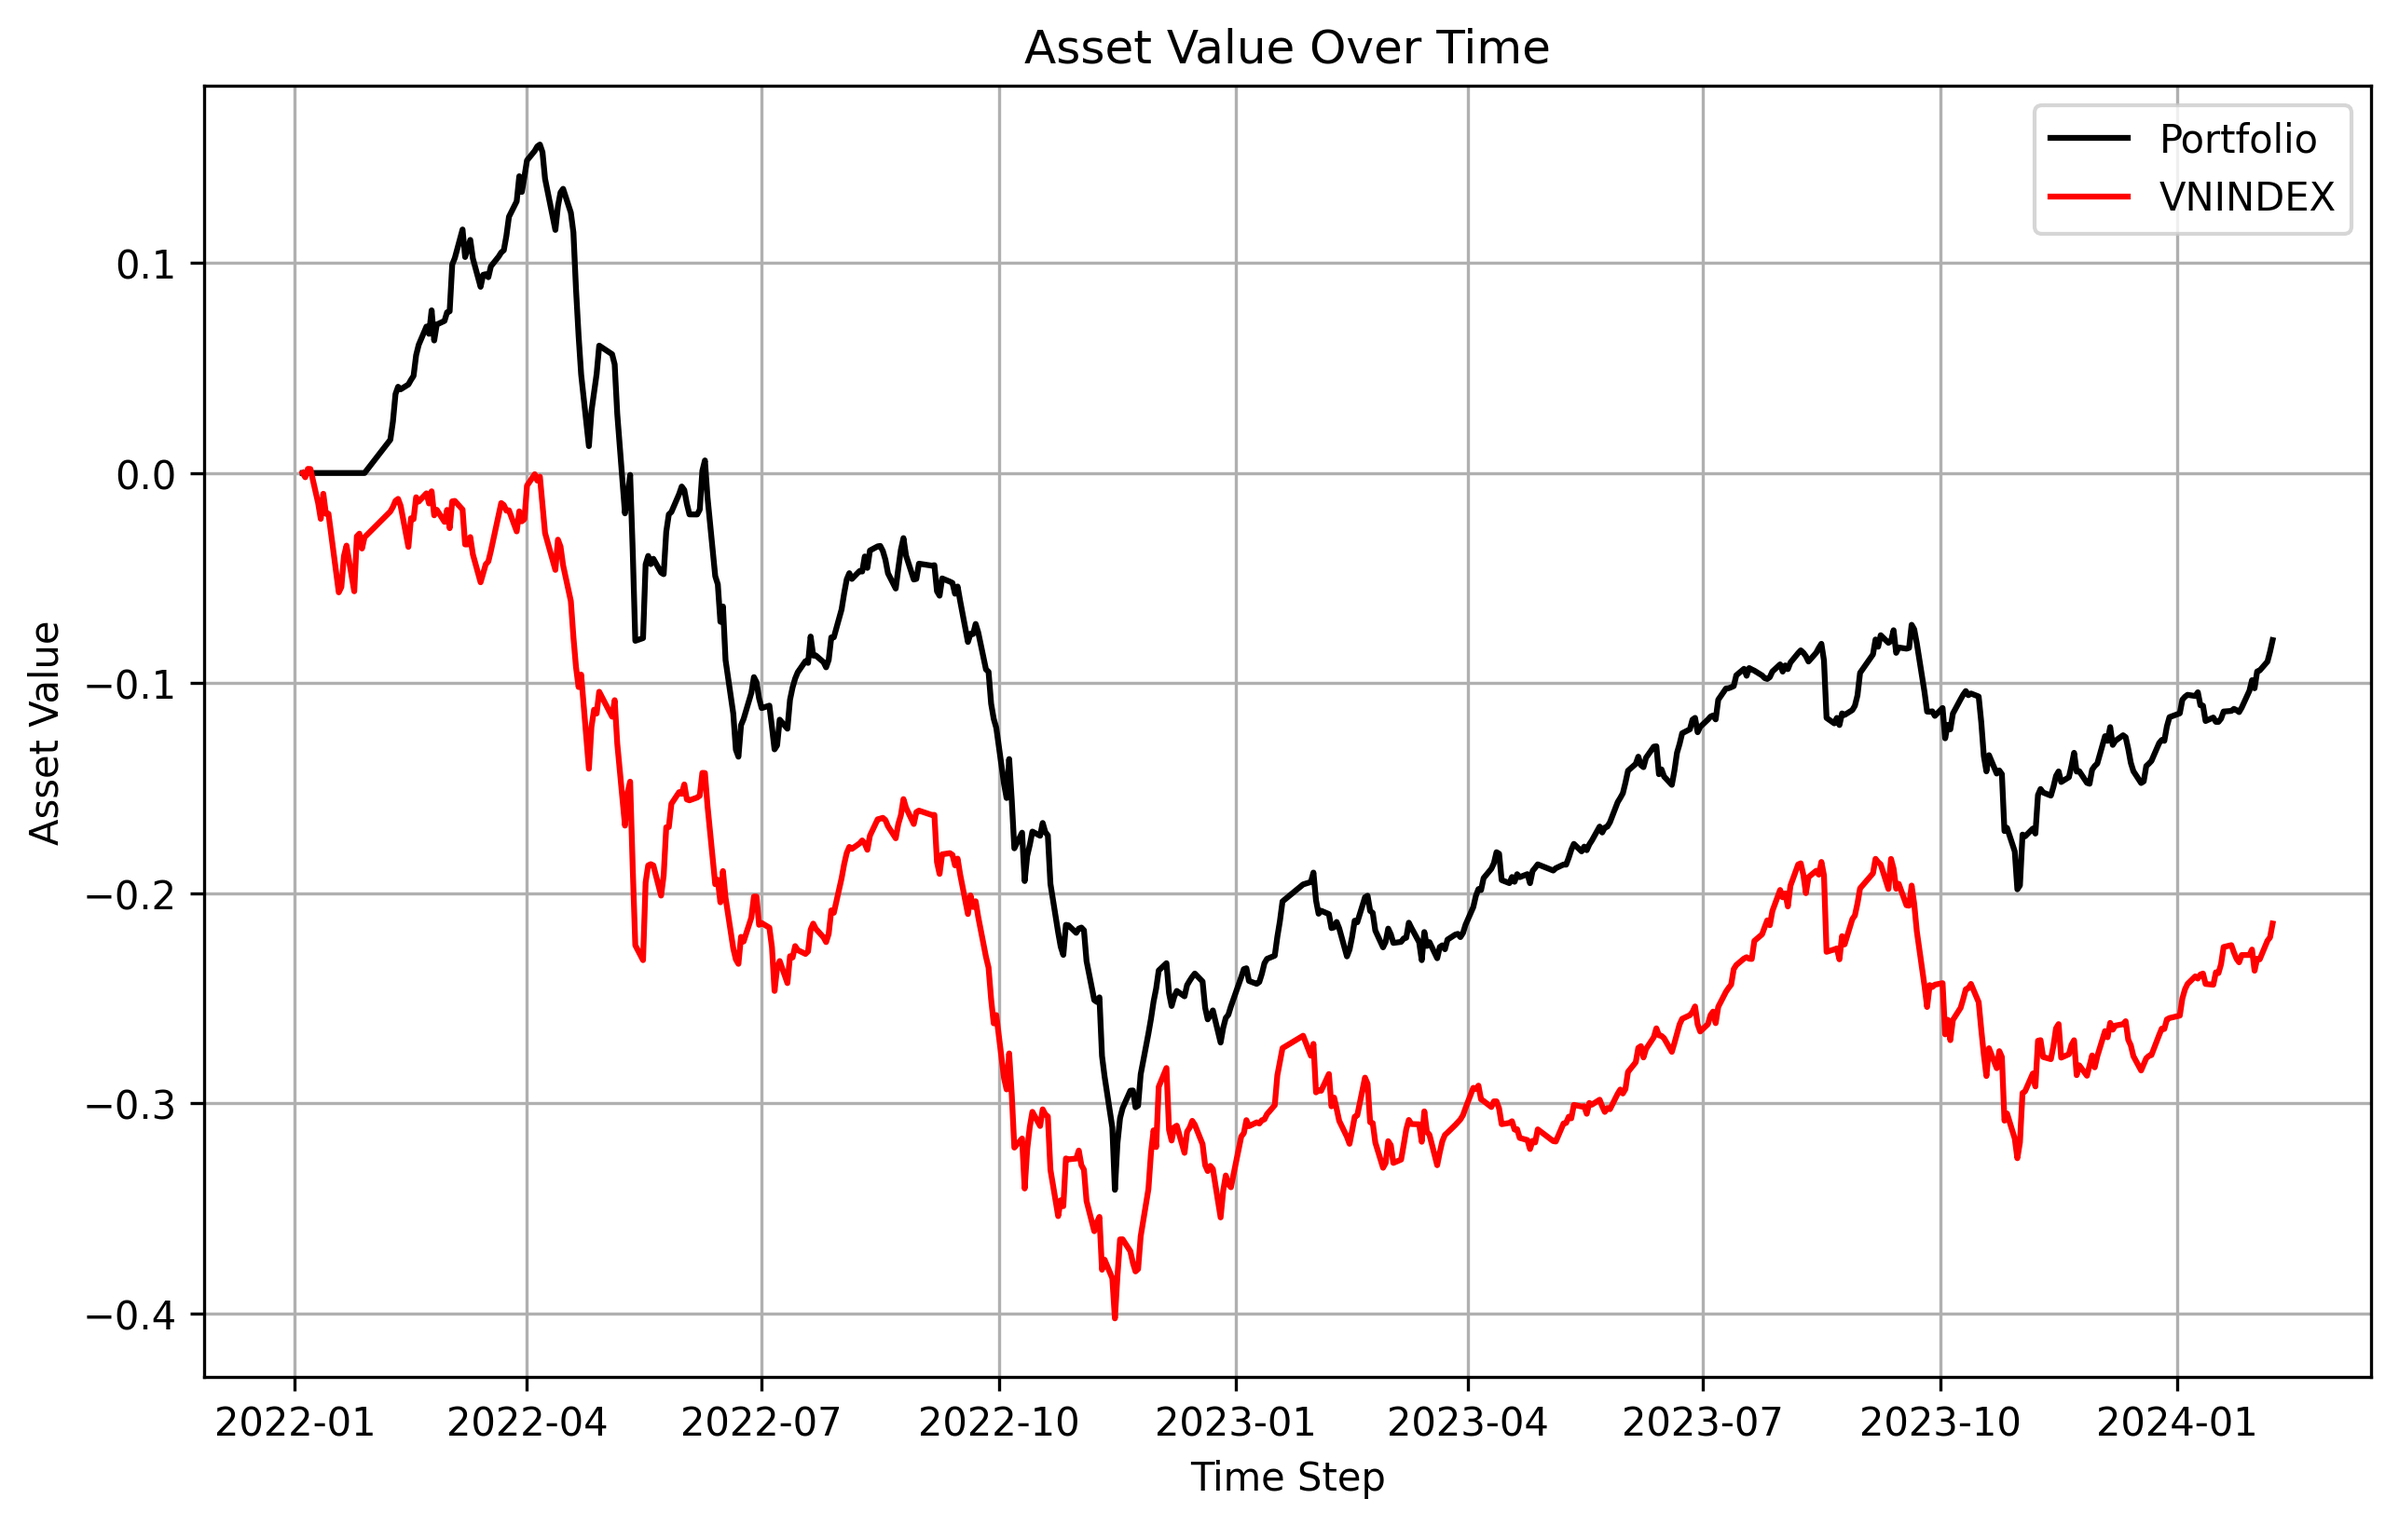
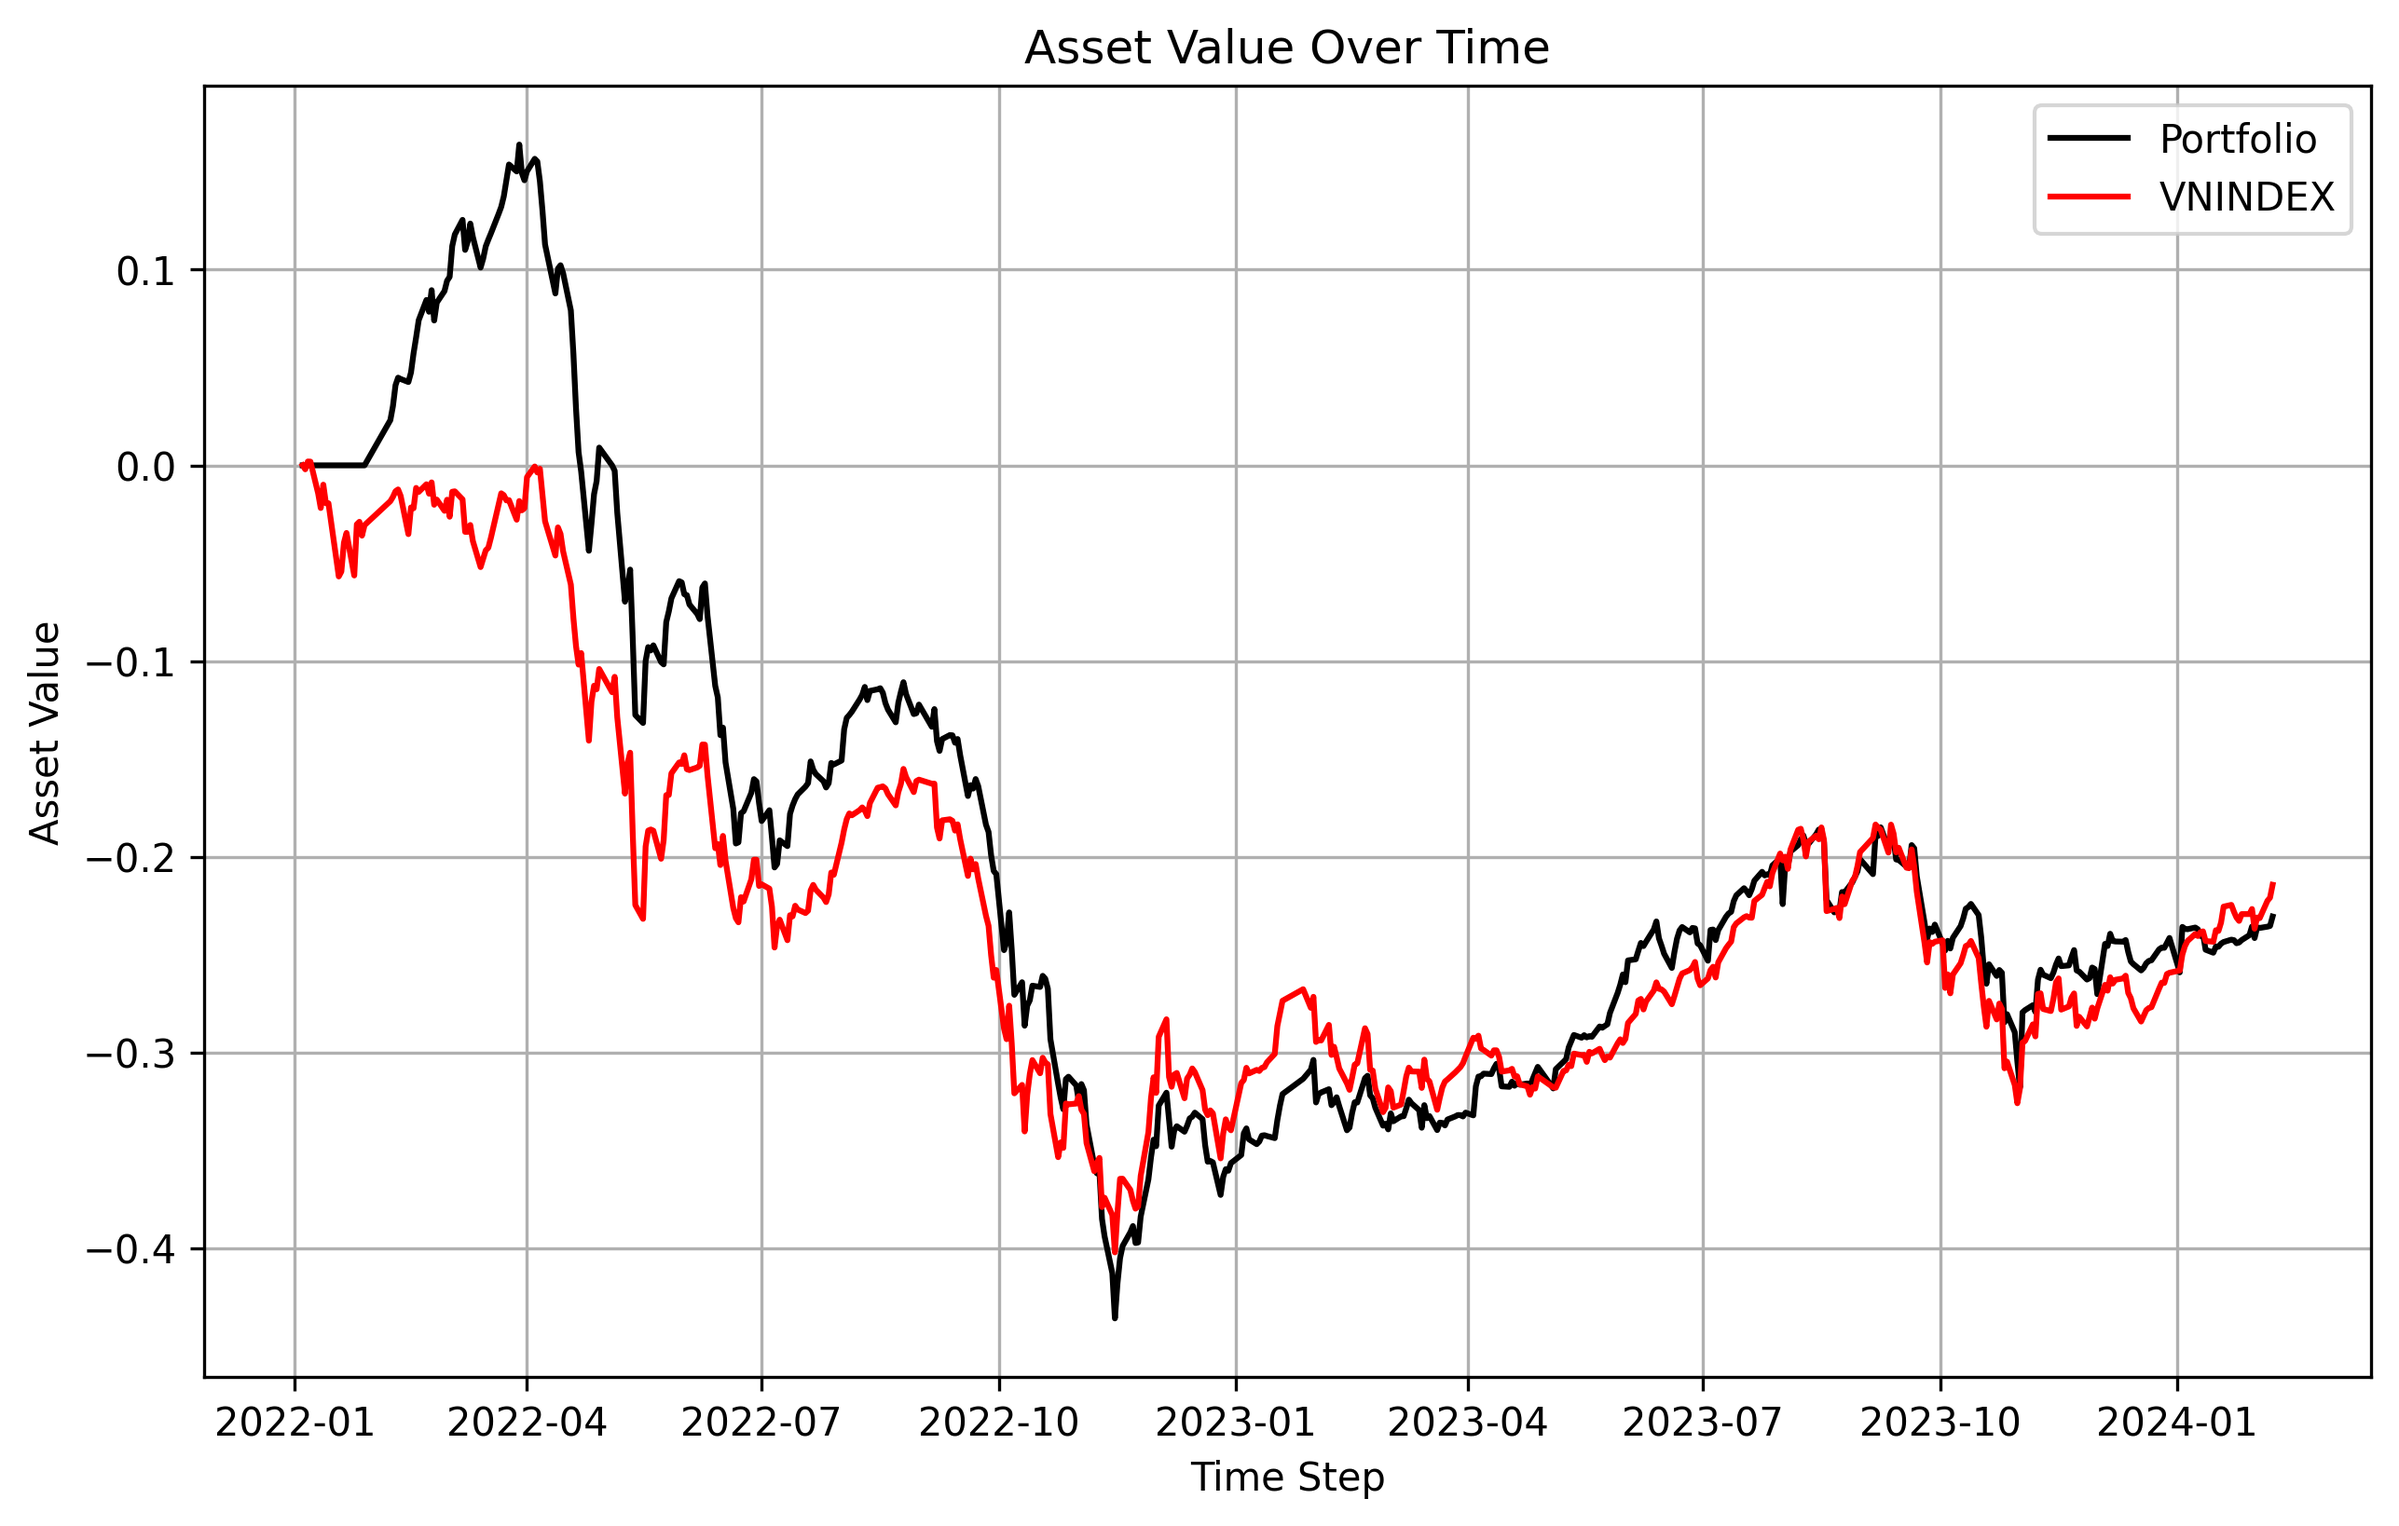
update optimization

diff --git a/backtesting.py b/backtesting.py
@@ -457,7 +457,7 @@ class Backtesting:
             self.tracking_dates.append(date[0])
 
         self.metric = Metric(self.period_returns, self.vnindex_data["return"].to_list())
-        return self.metric.sharpe_ratio(Decimal('0.0002'))
+        return self.metric.sharpe_ratio(Decimal('0.00023')) * Decimal(np.sqrt(250))
 
     def plot_nav(self, path="result/backtest/nav.png"):
         """
@@ -518,10 +518,10 @@ if __name__ == "__main__":
     )
     sr = smart_beta.run(processed_data=grouped_data, execution_dates=rebalancing_dates)
 
-    print(f"Sharpe ratio {sr * Decimal(np.sqrt(250))}")
+    print(f"Sharpe ratio {sr}")
     print(f"Information ratio {smart_beta.metric.information_ratio()}")
     print(
-        f"Sortino ratio {Decimal(np.sqrt(250)) * smart_beta.metric.sortino_ratio( Decimal('0.0002'))}"
+        f"Sortino ratio {Decimal(np.sqrt(250)) * smart_beta.metric.sortino_ratio( Decimal('0.00023'))}"
     )
     mdd, dds = smart_beta.metric.maximum_drawdown()
     print(f"MDD {mdd}")

diff --git a/evaluation.py b/evaluation.py
@@ -2,6 +2,7 @@
 Out-sample evaluation module
 """
 
+import numpy as np
 from decimal import Decimal
 from config.config import BEST_CONFIG
 from backtesting import create_bt_instance
@@ -21,7 +22,9 @@ if __name__ == "__main__":
 
     print(f"Sharpe ratio {sr}")
     print(f"Information ratio {bt.metric.information_ratio()}")
-    print(f"Sortino ratio {bt.metric.sortino_ratio( Decimal('0.03'))}")
+    print(
+        f"Sortino ratio {bt.metric.sortino_ratio( Decimal('0.00023')) * Decimal(np.sqrt(250))}"
+    )
     mdd, dds = bt.metric.maximum_drawdown()
     print(f"MDD {mdd}")
 

diff --git a/metrics/metric.py b/metrics/metric.py
@@ -63,7 +63,7 @@ class Metric:
         downside_returns = [
             min(0, period_return - risk_free_return)
             for period_return in self.period_returns
-        ]x
+        ]
         downside_risk = np.sqrt(np.mean([d_r**2 for d_r in downside_returns]))
 
         return (np.mean(self.period_returns) - risk_free_return) / downside_risk

diff --git a/README.md b/README.md
@@ -111,15 +111,16 @@ python backtesting.py
   - Sortino ratio (SoR)
   - Information ratio (Inf)
   - Maximum drawdown (MDD)
+- We use a risk-free rate of 6% per annum, equivalent to approximately 0.023% per day, as a benchmark for evaluating the Sharpe Ratio (SR) and Sortino Ratio (SoR).
 ### Parameters
 ### In-sample Backtesting Result
 - The backtesting results with VNINDEX benchmark is constructuted from 2019-01-01 to 2022-01-01.
 ```
 | Metric                 | Value                              |
 |------------------------|------------------------------------|
-| Sharpe Ratio           | 1.3499                             |
+| Sharpe Ratio           | 1.2971                             |
 | Information Ratio      | 0.0298                             |
-| Sortino Ratio          | 1.8032                            |
+| Sortino Ratio          | 1.7297                            |
 | Maximum Drawdown (MDD) | -0.2828                            |
 ```
 - The NAV chart. The chart is located at: `result/backtest/nav.png`
@@ -136,8 +137,8 @@ python optimization.py
 The currently found optimized parameters with the seed `2024` are:
 ```json
 {
-    "pe": [0.2164884729382647, 17.174669892864713],
-    "dy": [0.034556913031198136, 0.0876931181106818]
+    "pe": [0.01, 1e6],
+    "dy": [0, 15]
 }
 ```
 ## Out-of-sample Backtesting
@@ -152,10 +153,10 @@ python evaluation.py
 ```
 | Metric                 | Value                              |
 |------------------------|------------------------------------|
-| Sharpe Ratio           | -2.9439                            |
-| Information Ratio      | 0.0369                             |
-| Sortino Ratio          | -0.9470                            |
-| Maximum Drawdown (MDD) | -0.4301                            |
+| Sharpe Ratio           | -0.8555                            |
+| Information Ratio      | -0.0067                            |
+| Sortino Ratio          | -1.0783                            |
+| Maximum Drawdown (MDD) | -0.5154                            |
 ```
 - The NAV chart. The chart is located at `result/optimization/nav.png`.
 ![NAV chart with VNINDEX benchmark](result/optimization/nav.png)
